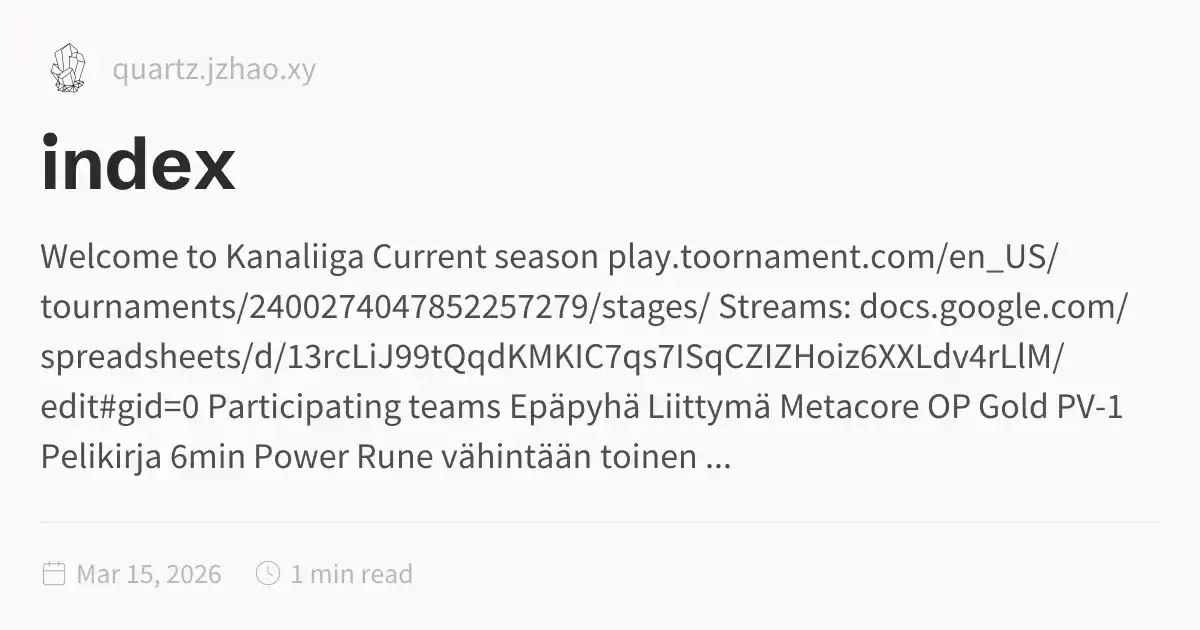
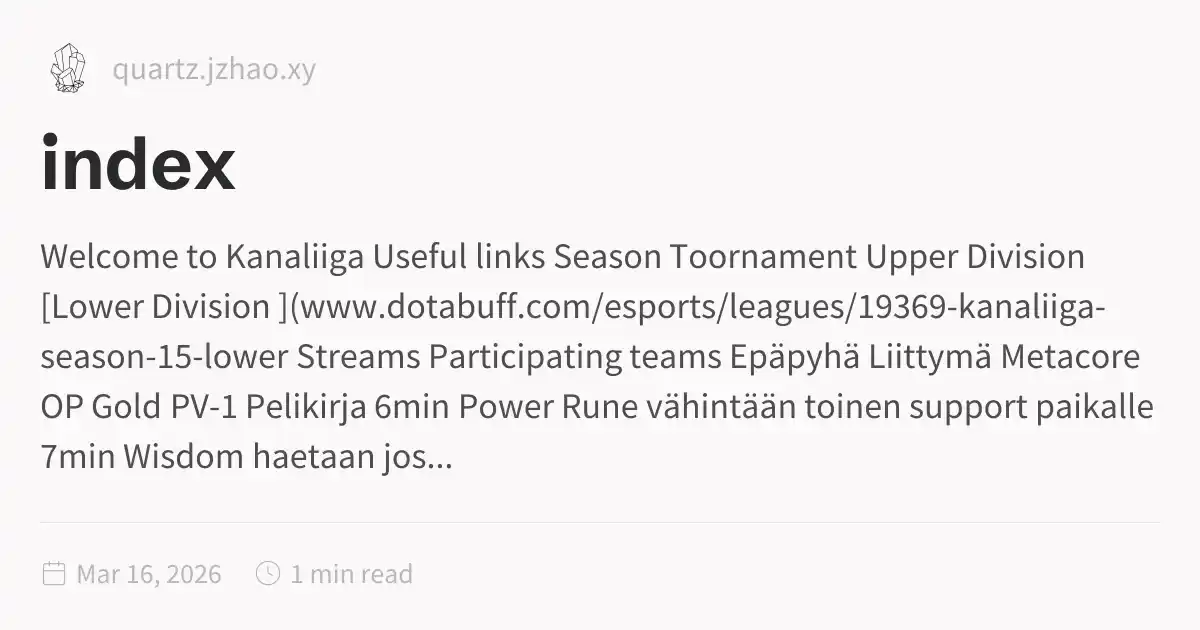
deploy: c0d73d5e9fddc55467db379dab175d9d66275f9e

Changed region(s): [[0.0308, 0.5429, 0.9558, 0.754], [0.0308, 0.3921, 0.9558, 0.5127]]

diff --git a/index.html b/index.html
@@ -1,5 +1,5 @@
 <!DOCTYPE html>
-<html lang="en" dir="ltr"><head><title>index</title><meta charset="utf-8"/><link rel="preconnect" href="https://fonts.googleapis.com"/><link rel="preconnect" href="https://fonts.gstatic.com"/><link rel="stylesheet" href="https://fonts.googleapis.com/css2?family=Schibsted Grotesk:wght@400;700&amp;family=Source Sans Pro:ital,wght@0,400;0,600;1,400;1,600&amp;family=IBM Plex Mono:wght@400;600&amp;display=swap"/><link rel="preconnect" href="https://cdnjs.cloudflare.com" crossorigin="anonymous"/><meta name="viewport" content="width=device-width, initial-scale=1.0"/><meta name="og:site_name" content="OP Kanaliiga"/><meta property="og:title" content="index"/><meta property="og:type" content="website"/><meta name="twitter:card" content="summary_large_image"/><meta name="twitter:title" content="index"/><meta name="twitter:description" content="Welcome to Kanaliiga Current season play.toornament.com/en_US/tournaments/2400274047852257279/stages/ Streams: docs.google.com/spreadsheets/d/13rcLiJ99tQqdKMKIC7qs7ISqCZIZHoiz6XXLdv4rLlM/edit#gid=0 Participating teams Epäpyhä Liittymä Metacore OP Gold PV-1 Pelikirja 6min Power Rune vähintään toinen ..."/><meta property="og:description" content="Welcome to Kanaliiga Current season play.toornament.com/en_US/tournaments/2400274047852257279/stages/ Streams: docs.google.com/spreadsheets/d/13rcLiJ99tQqdKMKIC7qs7ISqCZIZHoiz6XXLdv4rLlM/edit#gid=0 Participating teams Epäpyhä Liittymä Metacore OP Gold PV-1 Pelikirja 6min Power Rune vähintään toinen ..."/><meta property="og:image:alt" content="Welcome to Kanaliiga Current season play.toornament.com/en_US/tournaments/2400274047852257279/stages/ Streams: docs.google.com/spreadsheets/d/13rcLiJ99tQqdKMKIC7qs7ISqCZIZHoiz6XXLdv4rLlM/edit#gid=0 Participating teams Epäpyhä Liittymä Metacore OP Gold PV-1 Pelikirja 6min Power Rune vähintään toinen ..."/><meta property="twitter:domain" content="quartz.jzhao.xy"/><meta property="og:url" content="https://quartz.jzhao.xy/index"/><meta property="twitter:url" content="https://quartz.jzhao.xy/index"/><link rel="icon" href="./static/icon.png"/><meta name="description" content="Welcome to Kanaliiga Current season play.toornament.com/en_US/tournaments/2400274047852257279/stages/ Streams: docs.google.com/spreadsheets/d/13rcLiJ99tQqdKMKIC7qs7ISqCZIZHoiz6XXLdv4rLlM/edit#gid=0 Participating teams Epäpyhä Liittymä Metacore OP Gold PV-1 Pelikirja 6min Power Rune vähintään toinen ..."/><meta name="generator" content="Quartz"/><link href="./index.css" rel="stylesheet" type="text/css" data-persist="true"/><style>.expand-button {
+<html lang="en" dir="ltr"><head><title>index</title><meta charset="utf-8"/><link rel="preconnect" href="https://fonts.googleapis.com"/><link rel="preconnect" href="https://fonts.gstatic.com"/><link rel="stylesheet" href="https://fonts.googleapis.com/css2?family=Schibsted Grotesk:wght@400;700&amp;family=Source Sans Pro:ital,wght@0,400;0,600;1,400;1,600&amp;family=IBM Plex Mono:wght@400;600&amp;display=swap"/><link rel="preconnect" href="https://cdnjs.cloudflare.com" crossorigin="anonymous"/><meta name="viewport" content="width=device-width, initial-scale=1.0"/><meta name="og:site_name" content="OP Kanaliiga"/><meta property="og:title" content="index"/><meta property="og:type" content="website"/><meta name="twitter:card" content="summary_large_image"/><meta name="twitter:title" content="index"/><meta name="twitter:description" content="Welcome to Kanaliiga Useful links Season Toornament Upper Division [Lower Division ](www.dotabuff.com/esports/leagues/19369-kanaliiga-season-15-lower Streams Participating teams Epäpyhä Liittymä Metacore OP Gold PV-1 Pelikirja 6min Power Rune vähintään toinen support paikalle 7min Wisdom haetaan jos..."/><meta property="og:description" content="Welcome to Kanaliiga Useful links Season Toornament Upper Division [Lower Division ](www.dotabuff.com/esports/leagues/19369-kanaliiga-season-15-lower Streams Participating teams Epäpyhä Liittymä Metacore OP Gold PV-1 Pelikirja 6min Power Rune vähintään toinen support paikalle 7min Wisdom haetaan jos..."/><meta property="og:image:alt" content="Welcome to Kanaliiga Useful links Season Toornament Upper Division [Lower Division ](www.dotabuff.com/esports/leagues/19369-kanaliiga-season-15-lower Streams Participating teams Epäpyhä Liittymä Metacore OP Gold PV-1 Pelikirja 6min Power Rune vähintään toinen support paikalle 7min Wisdom haetaan jos..."/><meta property="twitter:domain" content="quartz.jzhao.xy"/><meta property="og:url" content="https://quartz.jzhao.xy/index"/><meta property="twitter:url" content="https://quartz.jzhao.xy/index"/><link rel="icon" href="./static/icon.png"/><meta name="description" content="Welcome to Kanaliiga Useful links Season Toornament Upper Division [Lower Division ](www.dotabuff.com/esports/leagues/19369-kanaliiga-season-15-lower Streams Participating teams Epäpyhä Liittymä Metacore OP Gold PV-1 Pelikirja 6min Power Rune vähintään toinen support paikalle 7min Wisdom haetaan jos..."/><meta name="generator" content="Quartz"/><link href="./index.css" rel="stylesheet" type="text/css" data-persist="true"/><style>.expand-button {
   position: absolute;
   display: flex;
   float: right;
@@ -115,9 +115,12 @@ pre:hover > .expand-button {
   padding: 0 12px;
   font-size: 14px;
 }
[1 lines of base64/hex data omitted]
-<p>Current season <a href="https://play.toornament.com/en_US/tournaments/2400274047852257279/stages/" class="external">https://play.toornament.com/en_US/tournaments/2400274047852257279/stages/<svg aria-hidden="true" class="external-icon" style="max-width:0.8em;max-height:0.8em;" viewBox="0 0 512 512"><path d="M320 0H288V64h32 82.7L201.4 265.4 178.7 288 224 333.3l22.6-22.6L448 109.3V192v32h64V192 32 0H480 320zM32 32H0V64 480v32H32 456h32V480 352 320H424v32 96H64V96h96 32V32H160 32z"></path></svg></a>
-Streams: <a href="https://docs.google.com/spreadsheets/d/13rcLiJ99tQqdKMKIC7qs7ISqCZIZHoiz6XXLdv4rLlM/edit?gid=0#gid=0" class="external">https://docs.google.com/spreadsheets/d/13rcLiJ99tQqdKMKIC7qs7ISqCZIZHoiz6XXLdv4rLlM/edit?gid=0#gid=0<svg aria-hidden="true" class="external-icon" style="max-width:0.8em;max-height:0.8em;" viewBox="0 0 512 512"><path d="M320 0H288V64h32 82.7L201.4 265.4 178.7 288 224 333.3l22.6-22.6L448 109.3V192v32h64V192 32 0H480 320zM32 32H0V64 480v32H32 456h32V480 352 320H424v32 96H64V96h96 32V32H160 32z"></path></svg></a></p>
[1 lines of base64/hex data omitted]
+<h2 id="useful-links">Useful links<a role="anchor" aria-hidden="true" tabindex="-1" data-no-popover="true" href="#useful-links" class="internal"><svg width="18" height="18" viewBox="0 0 24 24" fill="none" stroke="currentColor" stroke-width="2" stroke-linecap="round" stroke-linejoin="round"><path d="M10 13a5 5 0 0 0 7.54.54l3-3a5 5 0 0 0-7.07-7.07l-1.72 1.71"></path><path d="M14 11a5 5 0 0 0-7.54-.54l-3 3a5 5 0 0 0 7.07 7.07l1.71-1.71"></path></svg></a></h2>
+<p><a href="https://play.toornament.com/en_US/tournaments/2400274047852257279/stages/" class="external">Season Toornament <svg aria-hidden="true" class="external-icon" style="max-width:0.8em;max-height:0.8em;" viewBox="0 0 512 512"><path d="M320 0H288V64h32 82.7L201.4 265.4 178.7 288 224 333.3l22.6-22.6L448 109.3V192v32h64V192 32 0H480 320zM32 32H0V64 480v32H32 456h32V480 352 320H424v32 96H64V96h96 32V32H160 32z"></path></svg></a>
+<a href="https://www.dotabuff.com/esports/leagues/19368-kanaliiga-season-15" class="external">Upper Division<svg aria-hidden="true" class="external-icon" style="max-width:0.8em;max-height:0.8em;" viewBox="0 0 512 512"><path d="M320 0H288V64h32 82.7L201.4 265.4 178.7 288 224 333.3l22.6-22.6L448 109.3V192v32h64V192 32 0H480 320zM32 32H0V64 480v32H32 456h32V480 352 320H424v32 96H64V96h96 32V32H160 32z"></path></svg></a>
+[Lower Division ](<a href="https://www.dotabuff.com/esports/leagues/19369-kanaliiga-season-15-lower" class="external">https://www.dotabuff.com/esports/leagues/19369-kanaliiga-season-15-lower<svg aria-hidden="true" class="external-icon" style="max-width:0.8em;max-height:0.8em;" viewBox="0 0 512 512"><path d="M320 0H288V64h32 82.7L201.4 265.4 178.7 288 224 333.3l22.6-22.6L448 109.3V192v32h64V192 32 0H480 320zM32 32H0V64 480v32H32 456h32V480 352 320H424v32 96H64V96h96 32V32H160 32z"></path></svg></a>
+<a href="https://docs.google.com/spreadsheets/d/13rcLiJ99tQqdKMKIC7qs7ISqCZIZHoiz6XXLdv4rLlM/edit?gid=0#gid=0" class="external">Streams<svg aria-hidden="true" class="external-icon" style="max-width:0.8em;max-height:0.8em;" viewBox="0 0 512 512"><path d="M320 0H288V64h32 82.7L201.4 265.4 178.7 288 224 333.3l22.6-22.6L448 109.3V192v32h64V192 32 0H480 320zM32 32H0V64 480v32H32 456h32V480 352 320H424v32 96H64V96h96 32V32H160 32z"></path></svg></a></p>
 <h2 id="participating-teams">Participating teams<a role="anchor" aria-hidden="true" tabindex="-1" data-no-popover="true" href="#participating-teams" class="internal"><svg width="18" height="18" viewBox="0 0 24 24" fill="none" stroke="currentColor" stroke-width="2" stroke-linecap="round" stroke-linejoin="round"><path d="M10 13a5 5 0 0 0 7.54.54l3-3a5 5 0 0 0-7.07-7.07l-1.72 1.71"></path><path d="M14 11a5 5 0 0 0-7.54-.54l-3 3a5 5 0 0 0 7.07 7.07l1.71-1.71"></path></svg></a></h2>
 <ul>
 <li><a href="./Teams/Epäpyhä-Liittymä" class="internal alias" data-slug="Teams/Epäpyhä-Liittymä">Epäpyhä Liittymä</a></li>
@@ -125,7 +128,7 @@ Streams: <a href="https://docs.google.com/spreadsheets/d/13rcLiJ99tQqdKMKIC7qs7I
 <li><a href="./Teams/OP-Gold" class="internal alias" data-slug="Teams/OP-Gold">OP Gold</a></li>
 <li><a href="./Teams/PV-1" class="internal" data-slug="Teams/PV-1">PV-1</a></li>
 </ul>
-<h1 id="pelikirja">Pelikirja<a role="anchor" aria-hidden="true" tabindex="-1" data-no-popover="true" href="#pelikirja" class="internal"><svg width="18" height="18" viewBox="0 0 24 24" fill="none" stroke="currentColor" stroke-width="2" stroke-linecap="round" stroke-linejoin="round"><path d="M10 13a5 5 0 0 0 7.54.54l3-3a5 5 0 0 0-7.07-7.07l-1.72 1.71"></path><path d="M14 11a5 5 0 0 0-7.54-.54l-3 3a5 5 0 0 0 7.07 7.07l1.71-1.71"></path></svg></a></h1>
+<h2 id="pelikirja">Pelikirja<a role="anchor" aria-hidden="true" tabindex="-1" data-no-popover="true" href="#pelikirja" class="internal"><svg width="18" height="18" viewBox="0 0 24 24" fill="none" stroke="currentColor" stroke-width="2" stroke-linecap="round" stroke-linejoin="round"><path d="M10 13a5 5 0 0 0 7.54.54l3-3a5 5 0 0 0-7.07-7.07l-1.72 1.71"></path><path d="M14 11a5 5 0 0 0-7.54-.54l-3 3a5 5 0 0 0 7.07 7.07l1.71-1.71"></path></svg></a></h2>
 <ul>
 <li>6min <a href="./Concepts-and-terms/Power-Rune" class="internal alias" data-slug="Concepts-and-terms/Power-Rune">Power Rune</a> vähintään toinen support paikalle</li>
 <li>7min <a href="./Wisdom" class="internal" data-slug="Wisdom">Wisdom</a> haetaan jos suinkin mahdollista</li>
@@ -138,7 +141,7 @@ Streams: <a href="https://docs.google.com/spreadsheets/d/13rcLiJ99tQqdKMKIC7qs7I
 </li>
 <li>TP pidetään käytettävissä jos suinkin mahdollista</li>
 </ul>
-<h1 id="qa">Q&amp;A<a role="anchor" aria-hidden="true" tabindex="-1" data-no-popover="true" href="#qa" class="internal"><svg width="18" height="18" viewBox="0 0 24 24" fill="none" stroke="currentColor" stroke-width="2" stroke-linecap="round" stroke-linejoin="round"><path d="M10 13a5 5 0 0 0 7.54.54l3-3a5 5 0 0 0-7.07-7.07l-1.72 1.71"></path><path d="M14 11a5 5 0 0 0-7.54-.54l-3 3a5 5 0 0 0 7.07 7.07l1.71-1.71"></path></svg></a></h1>
+<h2 id="qa">Q&amp;A<a role="anchor" aria-hidden="true" tabindex="-1" data-no-popover="true" href="#qa" class="internal"><svg width="18" height="18" viewBox="0 0 24 24" fill="none" stroke="currentColor" stroke-width="2" stroke-linecap="round" stroke-linejoin="round"><path d="M10 13a5 5 0 0 0 7.54.54l3-3a5 5 0 0 0-7.07-7.07l-1.72 1.71"></path><path d="M14 11a5 5 0 0 0-7.54-.54l-3 3a5 5 0 0 0 7.07 7.07l1.71-1.71"></path></svg></a></h2>
 <p>En tiedä missä pelata > Pelaa mid heron lähellä
 Mihin laitan wardit > Aggressiivisiin paikkoihin
 Saako kuolla > Jos se tapahtuu tappeluhaluisen coren lähellä niin joo
@@ -153,6 +156,6 @@ Joku sanoi että “IRTI” > Juokse hiiteen sieltä</p></article><hr/><div clas
                 C46.042,11.405,47.451,12,49,12c3.309,0,6-2.691,6-6S52.309,0,49,0z M11,9c0-1.103,0.897-2,2-2s2,0.897,2,2s-0.897,2-2,2
                 S11,10.103,11,9z M6,51c-2.206,0-4-1.794-4-4s1.794-4,4-4s4,1.794,4,4S8.206,51,6,51z M33,49c0,2.206-1.794,4-4,4s-4-1.794-4-4
                 s1.794-4,4-4S33,46.794,33,49z M29,31c-3.309,0-6-2.691-6-6s2.691-6,6-6s6,2.691,6,6S32.309,31,29,31z M47,41c0,1.103-0.897,2-2,2
-                s-2-0.897-2-2s0.897-2,2-2S47,39.897,47,41z M49,10c-2.206,0-4-1.794-4-4s1.794-4,4-4s4,1.794,4,4S51.206,10,49,10z"></path></svg></button></div><div class="global-graph-outer"><div class="global-graph-container" data-cfg="{&quot;drag&quot;:true,&quot;zoom&quot;:true,&quot;depth&quot;:-1,&quot;scale&quot;:0.9,&quot;repelForce&quot;:0.5,&quot;centerForce&quot;:0.2,&quot;linkDistance&quot;:30,&quot;fontSize&quot;:0.6,&quot;opacityScale&quot;:1,&quot;showTags&quot;:true,&quot;removeTags&quot;:[],&quot;focusOnHover&quot;:true,&quot;enableRadial&quot;:true}"></div></div></div><div class="toc desktop-only"><button type="button" class="toc-header" aria-controls="toc-3" aria-expanded="true"><h3>Table of Contents</h3><svg xmlns="http://www.w3.org/2000/svg" width="24" height="24" viewBox="0 0 24 24" fill="none" stroke="currentColor" stroke-width="2" stroke-linecap="round" stroke-linejoin="round" class="fold"><polyline points="6 9 12 15 18 9"></polyline></svg></button><ul id="list-1" class="toc-content overflow"><li class="depth-0"><a href="#welcome-to-kanaliiga" data-for="welcome-to-kanaliiga">Welcome to Kanaliiga</a></li><li class="depth-1"><a href="#participating-teams" data-for="participating-teams">Participating teams</a></li><li class="depth-0"><a href="#pelikirja" data-for="pelikirja">Pelikirja</a></li><li class="depth-0"><a href="#qa" data-for="qa">Q&amp;A</a></li><li class="overflow-end"></li></ul></div></div><footer class><p>Created with <a href="https://quartz.jzhao.xyz/">Quartz v4.5.2</a> © 2026</p><ul><li><a href="https://github.com/ville-solja">GitHub</a></li></ul></footer></div></div></body><script type="application/javascript" data-persist="true">function n(){let t=this.parentElement;t.classList.toggle("is-collapsed");let e=t.getElementsByClassName("callout-content")[0];if(!e)return;let l=t.classList.contains("is-collapsed");e.style.gridTemplateRows=l?"0fr":"1fr"}function c(){let t=document.getElementsByClassName("callout is-collapsible");for(let e of t){let l=e.getElementsByClassName("callout-title")[0],s=e.getElementsByClassName("callout-content")[0];if(!l||!s)continue;l.addEventListener("click",n),window.addCleanup(()=>l.removeEventListener("click",n));let o=e.classList.contains("is-collapsed");s.style.gridTemplateRows=o?"0fr":"1fr"}}document.addEventListener("nav",c);
+                s-2-0.897-2-2s0.897-2,2-2S47,39.897,47,41z M49,10c-2.206,0-4-1.794-4-4s1.794-4,4-4s4,1.794,4,4S51.206,10,49,10z"></path></svg></button></div><div class="global-graph-outer"><div class="global-graph-container" data-cfg="{&quot;drag&quot;:true,&quot;zoom&quot;:true,&quot;depth&quot;:-1,&quot;scale&quot;:0.9,&quot;repelForce&quot;:0.5,&quot;centerForce&quot;:0.2,&quot;linkDistance&quot;:30,&quot;fontSize&quot;:0.6,&quot;opacityScale&quot;:1,&quot;showTags&quot;:true,&quot;removeTags&quot;:[],&quot;focusOnHover&quot;:true,&quot;enableRadial&quot;:true}"></div></div></div><div class="toc desktop-only"><button type="button" class="toc-header" aria-controls="toc-3" aria-expanded="true"><h3>Table of Contents</h3><svg xmlns="http://www.w3.org/2000/svg" width="24" height="24" viewBox="0 0 24 24" fill="none" stroke="currentColor" stroke-width="2" stroke-linecap="round" stroke-linejoin="round" class="fold"><polyline points="6 9 12 15 18 9"></polyline></svg></button><ul id="list-1" class="toc-content overflow"><li class="depth-0"><a href="#welcome-to-kanaliiga" data-for="welcome-to-kanaliiga">Welcome to Kanaliiga</a></li><li class="depth-1"><a href="#useful-links" data-for="useful-links">Useful links</a></li><li class="depth-1"><a href="#participating-teams" data-for="participating-teams">Participating teams</a></li><li class="depth-1"><a href="#pelikirja" data-for="pelikirja">Pelikirja</a></li><li class="depth-1"><a href="#qa" data-for="qa">Q&amp;A</a></li><li class="overflow-end"></li></ul></div></div><footer class><p>Created with <a href="https://quartz.jzhao.xyz/">Quartz v4.5.2</a> © 2026</p><ul><li><a href="https://github.com/ville-solja">GitHub</a></li></ul></footer></div></div></body><script type="application/javascript" data-persist="true">function n(){let t=this.parentElement;t.classList.toggle("is-collapsed");let e=t.getElementsByClassName("callout-content")[0];if(!e)return;let l=t.classList.contains("is-collapsed");e.style.gridTemplateRows=l?"0fr":"1fr"}function c(){let t=document.getElementsByClassName("callout is-collapsible");for(let e of t){let l=e.getElementsByClassName("callout-title")[0],s=e.getElementsByClassName("callout-content")[0];if(!l||!s)continue;l.addEventListener("click",n),window.addCleanup(()=>l.removeEventListener("click",n));let o=e.classList.contains("is-collapsed");s.style.gridTemplateRows=o?"0fr":"1fr"}}document.addEventListener("nav",c);
 </script><script type="module" data-persist="true">function E(a,e){if(!a)return;function t(o){o.target===this&&(o.preventDefault(),o.stopPropagation(),e())}function n(o){o.key.startsWith("Esc")&&(o.preventDefault(),e())}a?.addEventListener("click",t),window.addCleanup(()=>a?.removeEventListener("click",t)),document.addEventListener("keydown",n),window.addCleanup(()=>document.removeEventListener("keydown",n))}function f(a){for(;a.firstChild;)a.removeChild(a.firstChild)}var m=class{constructor(e,t){this.container=e;this.content=t;this.setupEventListeners(),this.setupNavigationControls(),this.resetTransform()}isDragging=!1;startPan={x:0,y:0};currentPan={x:0,y:0};scale=1;MIN_SCALE=.5;MAX_SCALE=3;cleanups=[];setupEventListeners(){let e=this.onMouseDown.bind(this),t=this.onMouseMove.bind(this),n=this.onMouseUp.bind(this),o=this.onTouchStart.bind(this),r=this.onTouchMove.bind(this),i=this.onTouchEnd.bind(this),s=this.resetTransform.bind(this);this.container.addEventListener("mousedown",e),document.addEventListener("mousemove",t),document.addEventListener("mouseup",n),this.container.addEventListener("touchstart",o,{passive:!1}),document.addEventListener("touchmove",r,{passive:!1}),document.addEventListener("touchend",i),window.addEventListener("resize",s),this.cleanups.push(()=>this.container.removeEventListener("mousedown",e),()=>document.removeEventListener("mousemove",t),()=>document.removeEventListener("mouseup",n),()=>this.container.removeEventListener("touchstart",o),()=>document.removeEventListener("touchmove",r),()=>document.removeEventListener("touchend",i),()=>window.removeEventListener("resize",s))}cleanup(){for(let e of this.cleanups)e()}setupNavigationControls(){let e=document.createElement("div");e.className="mermaid-controls";let t=this.createButton("+",()=>this.zoom(.1)),n=this.createButton("-",()=>this.zoom(-.1)),o=this.createButton("Reset",()=>this.resetTransform());e.appendChild(n),e.appendChild(o),e.appendChild(t),this.container.appendChild(e)}createButton(e,t){let n=document.createElement("button");return n.textContent=e,n.className="mermaid-control-button",n.addEventListener("click",t),window.addCleanup(()=>n.removeEventListener("click",t)),n}onMouseDown(e){e.button===0&&(this.isDragging=!0,this.startPan={x:e.clientX-this.currentPan.x,y:e.clientY-this.currentPan.y},this.container.style.cursor="grabbing")}onMouseMove(e){this.isDragging&&(e.preventDefault(),this.currentPan={x:e.clientX-this.startPan.x,y:e.clientY-this.startPan.y},this.updateTransform())}onMouseUp(){this.isDragging=!1,this.container.style.cursor="grab"}onTouchStart(e){if(e.touches.length!==1)return;this.isDragging=!0;let t=e.touches[0];this.startPan={x:t.clientX-this.currentPan.x,y:t.clientY-this.currentPan.y}}onTouchMove(e){if(!this.isDragging||e.touches.length!==1)return;e.preventDefault();let t=e.touches[0];this.currentPan={x:t.clientX-this.startPan.x,y:t.clientY-this.startPan.y},this.updateTransform()}onTouchEnd(){this.isDragging=!1}zoom(e){let t=Math.min(Math.max(this.scale+e,this.MIN_SCALE),this.MAX_SCALE),n=this.content.getBoundingClientRect(),o=n.width/2,r=n.height/2,i=t-this.scale;this.currentPan.x-=o*i,this.currentPan.y-=r*i,this.scale=t,this.updateTransform()}updateTransform(){this.content.style.transform=`translate(${this.currentPan.x}px, ${this.currentPan.y}px) scale(${this.scale})`}resetTransform(){let t=this.content.querySelector("svg").getBoundingClientRect(),n=t.width/this.scale,o=t.height/this.scale;this.scale=1,this.currentPan={x:(this.container.clientWidth-n)/2,y:(this.container.clientHeight-o)/2},this.updateTransform()}},T=["--secondary","--tertiary","--gray","--light","--lightgray","--highlight","--dark","--darkgray","--codeFont"],y;document.addEventListener("nav",async()=>{let e=document.querySelector(".center").querySelectorAll("code.mermaid");if(e.length===0)return;y||=await import("https://cdnjs.cloudflare.com/ajax/libs/mermaid/11.4.0/mermaid.esm.min.mjs");let t=y.default,n=new WeakMap;for(let r of e)n.set(r,r.innerText);async function o(){for(let s of e){s.removeAttribute("data-processed");let c=n.get(s);c&&(s.innerHTML=c)}let r=T.reduce((s,c)=>(s[c]=window.getComputedStyle(document.documentElement).getPropertyValue(c),s),{}),i=document.documentElement.getAttribute("saved-theme")==="dark";t.initialize({startOnLoad:!1,securityLevel:"loose",theme:i?"dark":"base",themeVariables:{fontFamily:r["--codeFont"],primaryColor:r["--light"],primaryTextColor:r["--darkgray"],primaryBorderColor:r["--tertiary"],lineColor:r["--darkgray"],secondaryColor:r["--secondary"],tertiaryColor:r["--tertiary"],clusterBkg:r["--light"],edgeLabelBackground:r["--highlight"]}}),await t.run({nodes:e})}await o(),document.addEventListener("themechange",o),window.addCleanup(()=>document.removeEventListener("themechange",o));for(let r=0;r<e.length;r++){let v=function(){let g=l.querySelector("#mermaid-space"),h=l.querySelector(".mermaid-content");if(!h)return;f(h);let w=i.querySelector("svg").cloneNode(!0);h.appendChild(w),l.classList.add("active"),g.style.cursor="grab",u=new m(g,h)},M=function(){l.classList.remove("active"),u?.cleanup(),u=null},i=e[r],s=i.parentElement,c=s.querySelector(".clipboard-button"),d=s.querySelector(".expand-button"),p=window.getComputedStyle(c),L=c.offsetWidth+parseFloat(p.marginLeft||"0")+parseFloat(p.marginRight||"0");d.style.right=`calc(${L}px + 0.3rem)`,s.prepend(d);let l=s.querySelector("#mermaid-container");if(!l)return;let u=null;d.addEventListener("click",v),E(l,M),window.addCleanup(()=>{u?.cleanup(),d.removeEventListener("click",v)})}});
 </script><script src="https://cdn.jsdelivr.net/npm/katex@0.16.11/dist/contrib/copy-tex.min.js" type="application/javascript" data-persist="true"></script><script src="./postscript.js" type="module" data-persist="true"></script></html>
